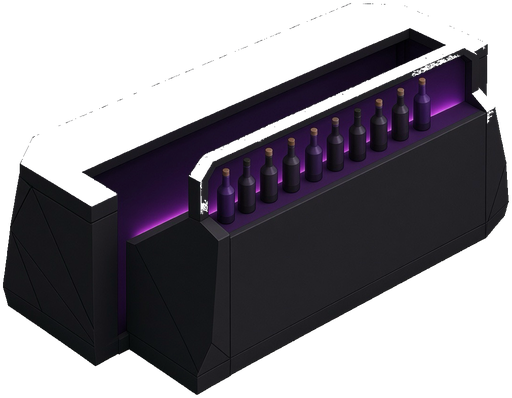
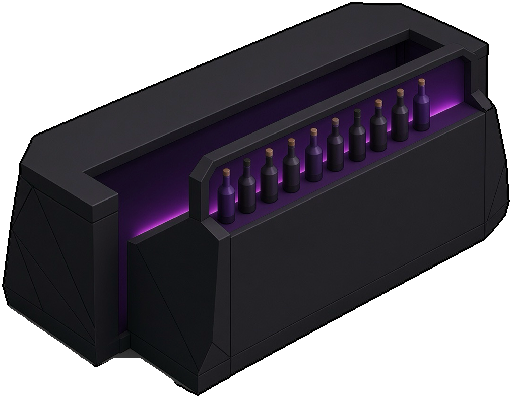
fix: 1-tile wall rim + hard-opaque bar blacks
Soft-block outermost rim (BUILD_MARGIN=1) and nudge neonFrac to 0.84 so
sofa/bar sit on glossy floor just inside the neon wall. Recomposite bar
PNGs with original RGB and a hole-filled rembg silhouette so charcoal
body stays fully opaque (no interior punch-through).

diff --git a/src/game/scenes/ClubScene.ts b/src/game/scenes/ClubScene.ts
@@ -58,6 +58,8 @@ interface SavedLayout {
 
 const FACINGS: IsoFacing[] = ['se', 'sw', 'nw', 'ne'];
 const LAYOUT_KEY = 'night-club-layout-v1';
+/** Soft wall rim: outermost tile ring sits under neon wall geometry. */
+const BUILD_MARGIN = 1;
 const TAP_THRESH = 10;
 const HUD_TOP = 56;
 
@@ -367,11 +369,21 @@ export class ClubScene extends Phaser.Scene {
 
   private canPlaceFurniture(def: FurnitureDef, col: number, row: number): boolean {
     if (!this.tileInBounds(col, row, def.footprint)) return false;
+    const { cols, rows } = this.scenario.map;
     const wall = new Set(this.scenario.blocked.map(([c, r]) => `${c},${r}`));
     for (let dc = 0; dc < def.footprint[0]; dc++) {
       for (let dr = 0; dr < def.footprint[1]; dr++) {
         const c = col + dc;
         const r = row + dr;
+        // 1-tile outer rim = neon wall (reject even if scenario.blocked empty)
+        if (
+          c < BUILD_MARGIN ||
+          r < BUILD_MARGIN ||
+          c >= cols - BUILD_MARGIN ||
+          r >= rows - BUILD_MARGIN
+        ) {
+          return false;
+        }
         if (wall.has(`${c},${r}`)) return false;
         // collide with other furniture
         for (const other of this.scenario.furniture) {
@@ -397,7 +409,9 @@ export class ClubScene extends Phaser.Scene {
     // (art neon bbox covers ~87% of the image; match that to the iso diamond).
     const diamondW = (cols + rows - 2) * (tileWidth / 2);
     const diamondH = (cols + rows - 2) * (tileHeight / 2);
-    const neonFrac = 0.87;
+    // neon bbox ~87% of art; 0.84 pushes wall slightly outward so BUILD_MARGIN rim
+    // sits on/under neon blocks while placeable tiles hug glossy floor inside.
+    const neonFrac = 0.84;
     this.roomImage = this.add.image(center.x, center.y + 6, 'room_floor');
     this.roomImage.setDisplaySize(diamondW / neonFrac, diamondH / neonFrac);
     this.roomImage.setDepth(0);
@@ -513,6 +527,8 @@ export class ClubScene extends Phaser.Scene {
 
   private applyBarDisplaySize(): void {
     this.barImage.setDisplaySize(168, 124);
+    this.barImage.setAlpha(1);
+    this.barImage.setBlendMode(Phaser.BlendModes.NORMAL);
   }
 
   private placeFurniture(): void {
